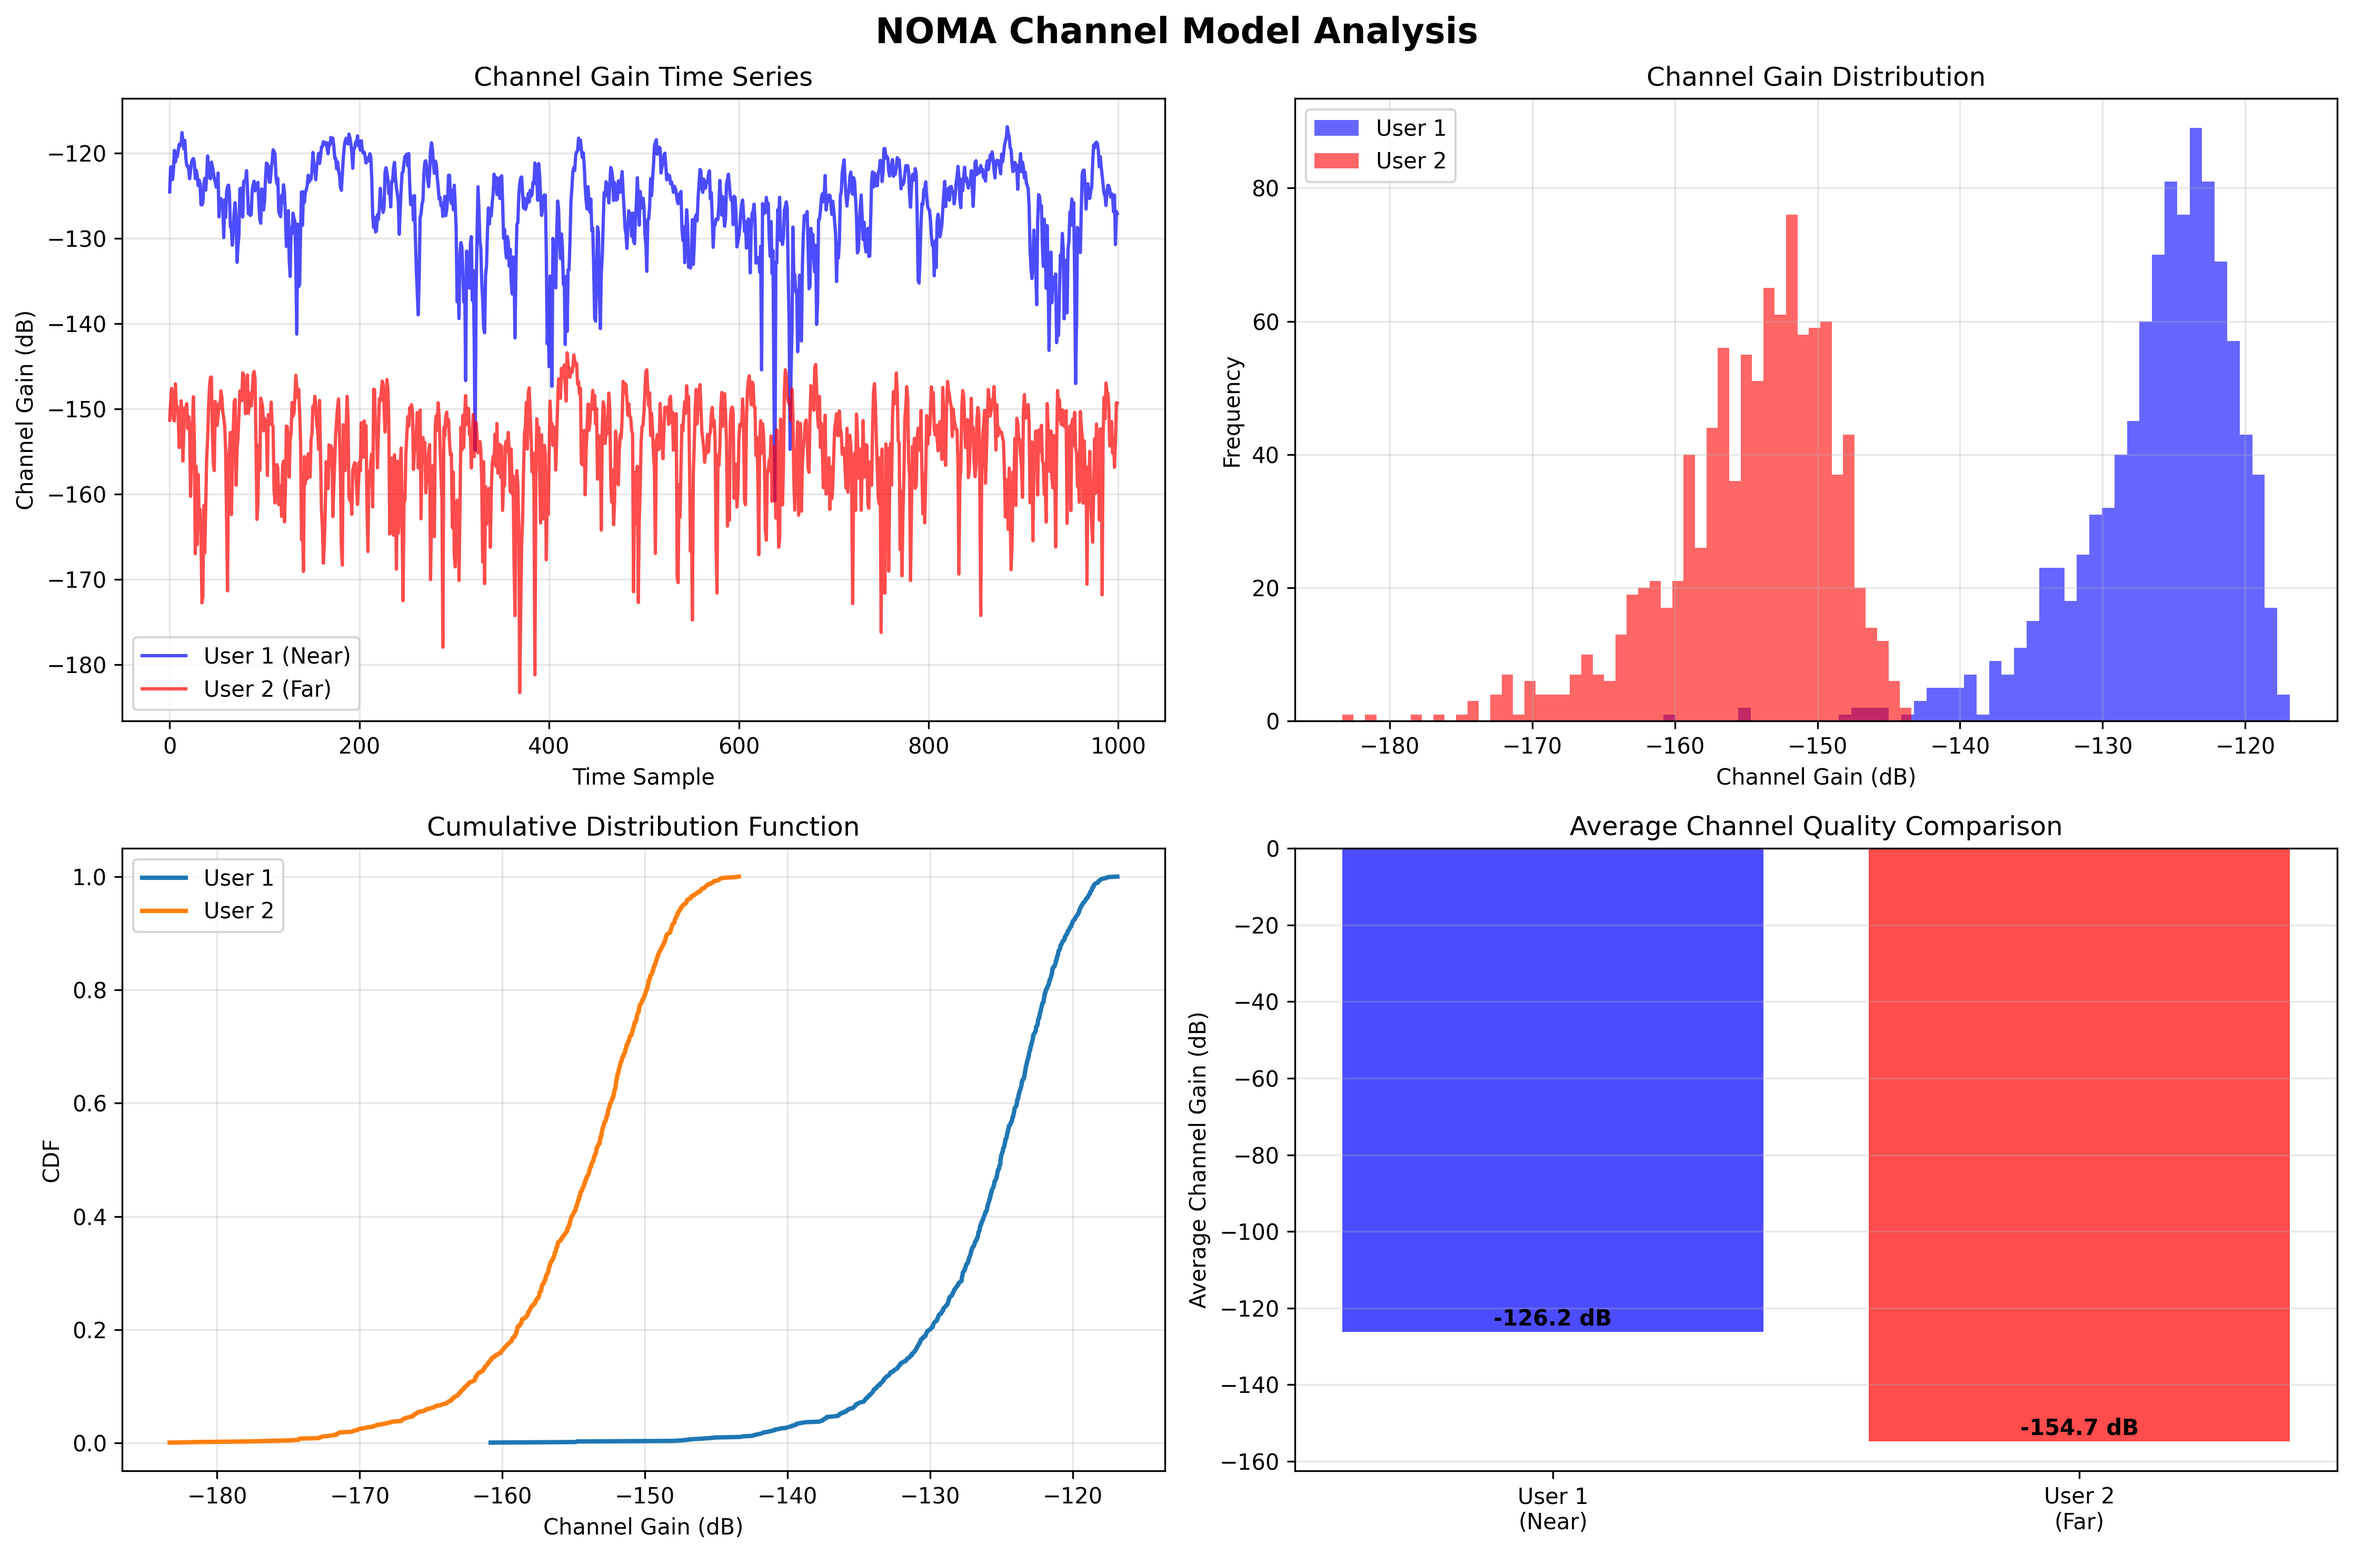
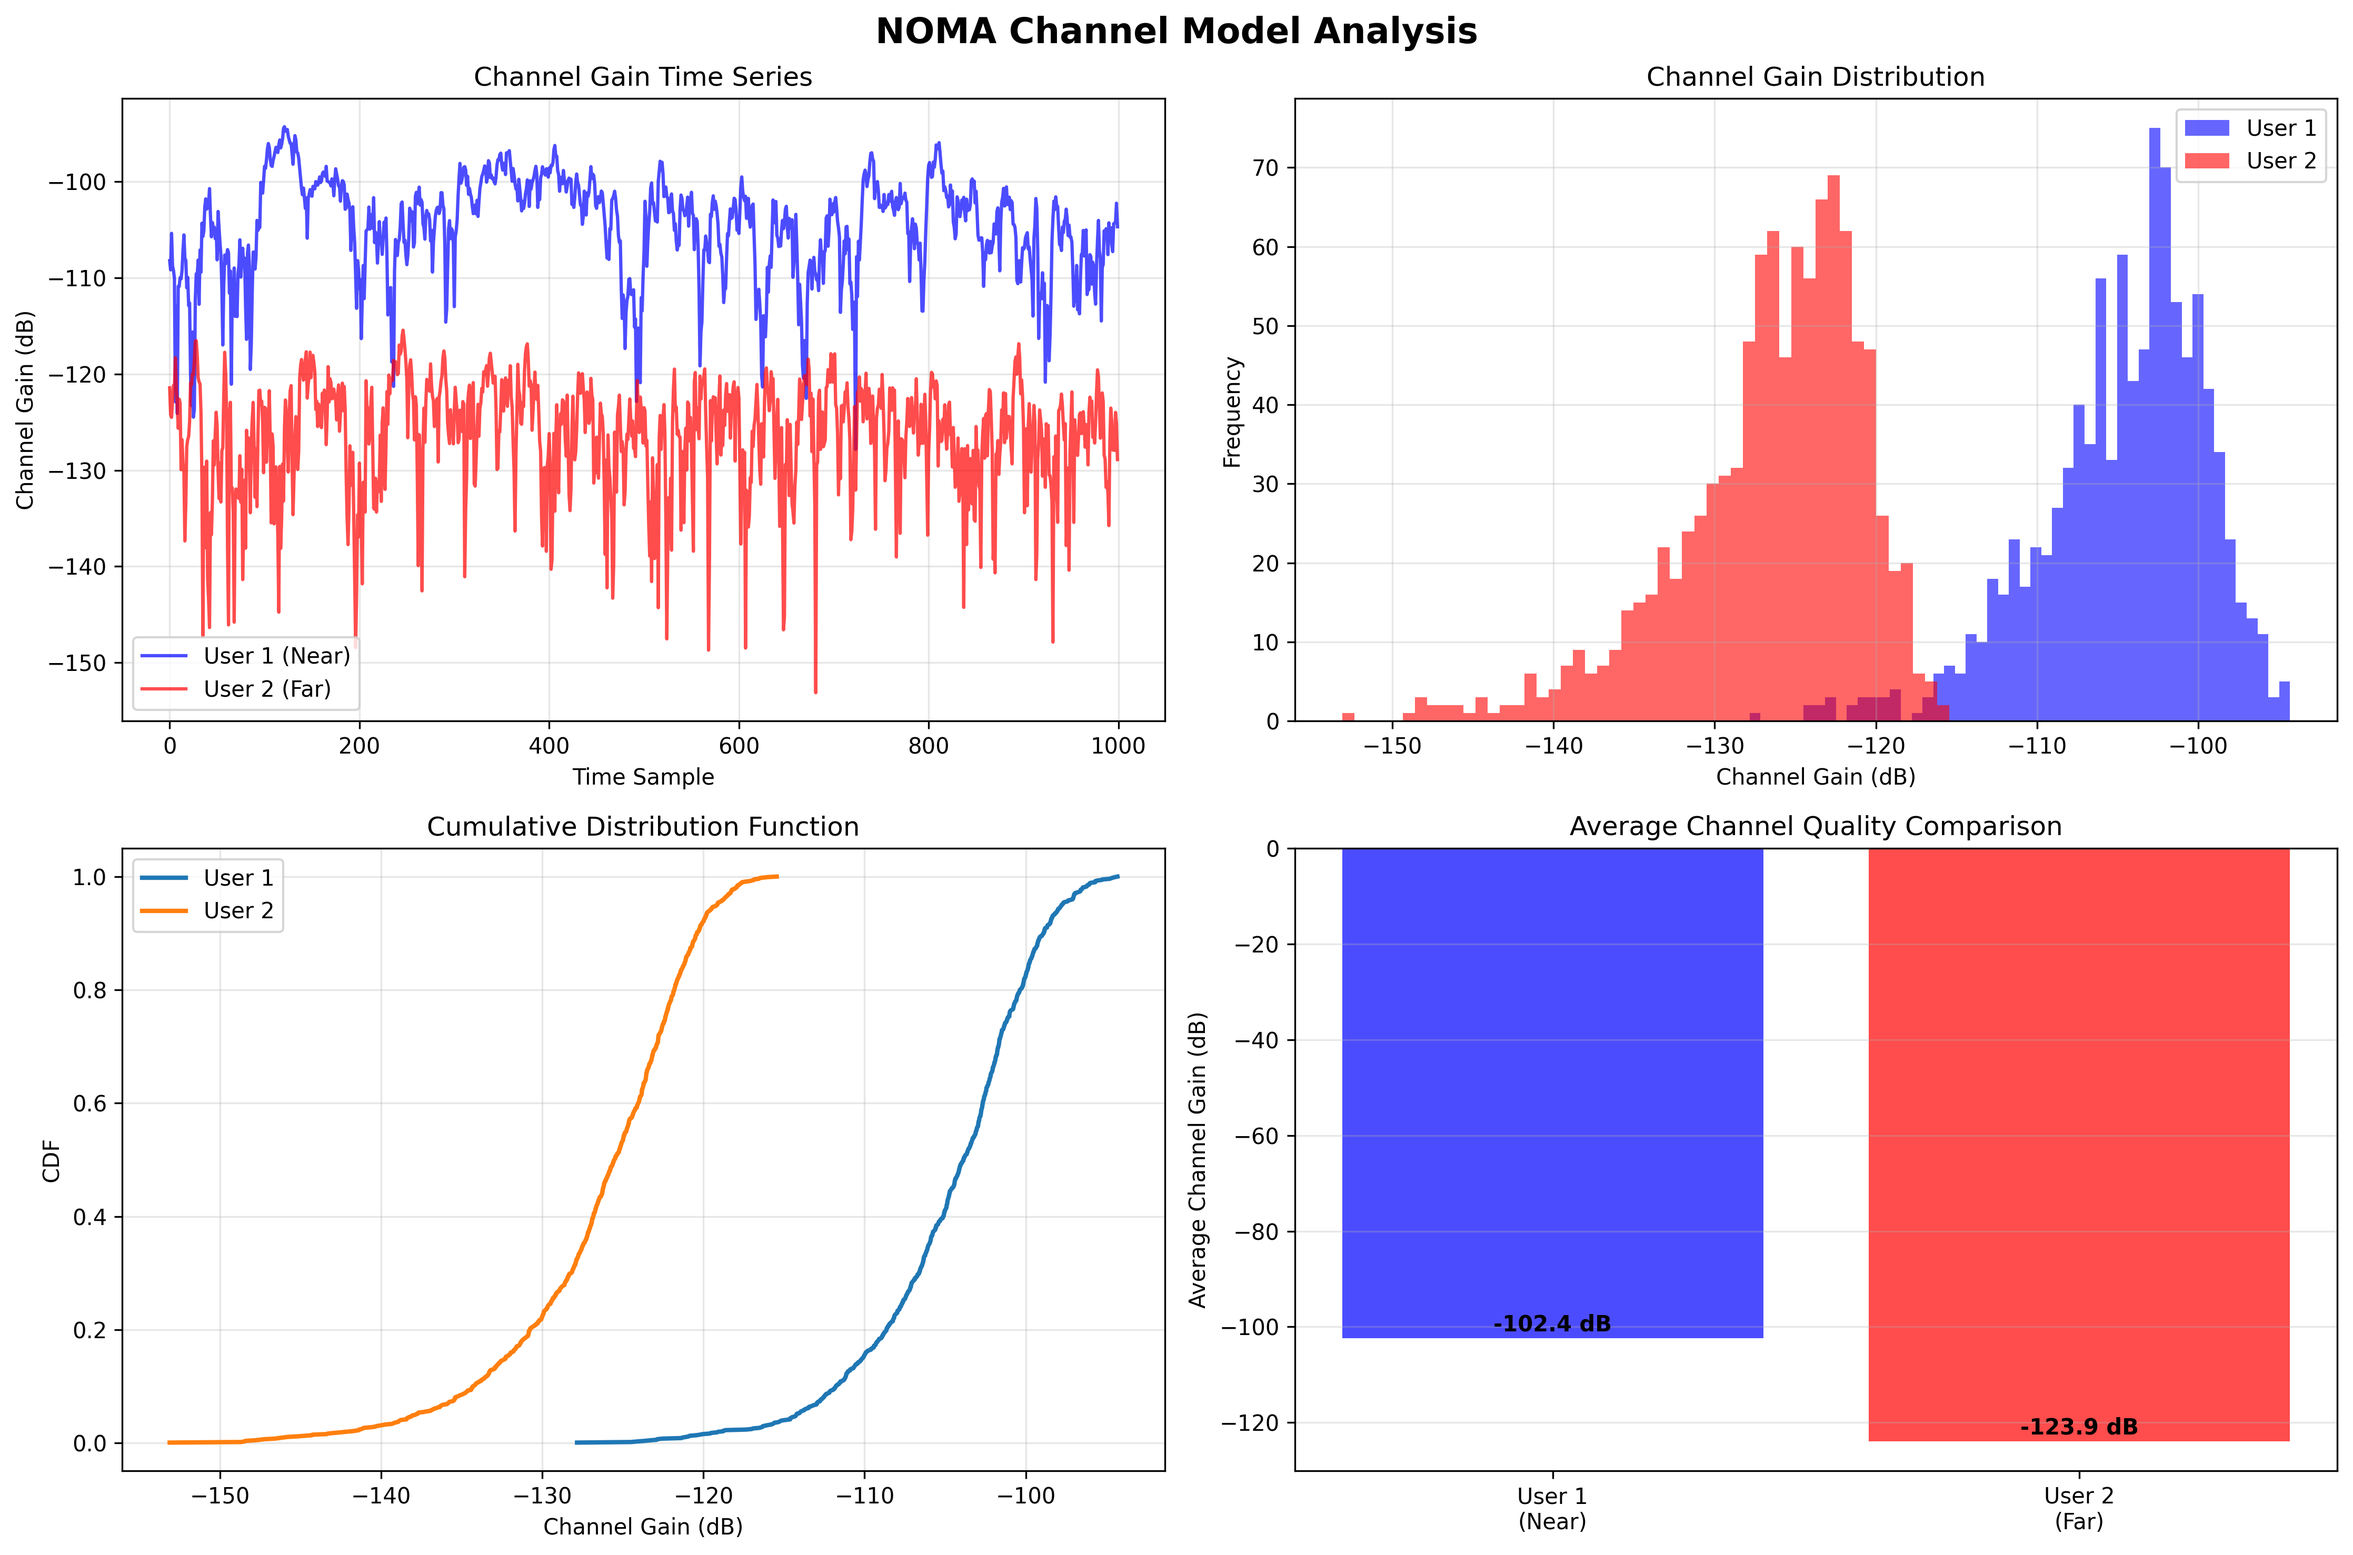
feat: sim 3

diff --git a/power_allocation.py b/power_allocation.py
@@ -38,51 +38,43 @@ class NOMASystem:
         
         # Check if power is static or dynamic
         is_dynamic = isinstance(alpha_1, np.ndarray)
-        
+
         # Initialize SINR arrays
         sinr_user1_linear = np.zeros(num_samples)
         sinr_user2_linear = np.zeros(num_samples)
         
-        for t in range(num_samples):
-            h1_sq = self.channel_gains[0, t]  # |h1|² (Near user)
-            h2_sq = self.channel_gains[1, t]  # |h2|² (Far user)
-            
-            # Get power for this time sample t
-            P1_t = P1[t] if is_dynamic else P1
-            P2_t = P2[t] if is_dynamic else P2
-            
-            # Determine who is stronger user (better channel) *instantaneously*
-            if h1_sq >= h2_sq:
-                # User 1 is stronger
-                h_strong, h_weak = h1_sq, h2_sq
-                P_strong, P_weak = P1_t, P2_t
-            else:
-                # User 2 is stronger  
-                h_strong, h_weak = h2_sq, h1_sq
-                P_strong, P_weak = P2_t, P1_t
-            
-            # ===
-            # BUG FIX: The original code had these two formulas swapped.
-            # ===
-            
-            # Strong user (post-SIC): Decodes its own signal interference-free
-            sinr_strong_user = (P_strong * h_strong) / self.config.noise_power_watts
-            
-            # Weak user: Treats the strong user's signal as noise
-            sinr_weak_user = (P_weak * h_weak) / (P_strong * h_weak + self.config.noise_power_watts)
-            
-            # === END OF FIX ===
-
-            # Assign back to correct users
-            if h1_sq >= h2_sq:
-                # User 1 was strong
-                sinr_user1_linear[t] = sinr_strong_user
-                sinr_user2_linear[t] = sinr_weak_user
-            else:
-                # User 2 was strong
-                sinr_user1_linear[t] = sinr_weak_user
-                sinr_user2_linear[t] = sinr_strong_user
+        # Get channel gains (h_sq) for both users
+        # User 1 is *always* the strong user (Near)
+        # User 2 is *always* the weak user (Far)
+        h1_sq = self.channel_gains[0, :]  # User 1 (Strong, Near)
+        h2_sq = self.channel_gains[1, :]  # User 2 (Weak, Far)
         
+        # Get noise power
+        noise = self.config.noise_power_watts
+        
+        if is_dynamic:
+            # Handle dynamic power arrays
+            P1_t = P1
+            P2_t = P2
+        else:
+            # Handle static power scalars by creating an array
+            P1_t = P1 * np.ones(num_samples)
+            P2_t = P2 * np.ones(num_samples)
+
+        # === RECTIFIED SINR CALCULATION (FIXED ROLES) ===
+        
+        # User 1 (Strong User) performs SIC.
+        # It decodes its own signal interference-free.
+        # Add 1e-12 to noise to prevent divide-by-zero if noise is 0.
+        sinr_user1_linear = (P1_t * h1_sq) / (noise + 1e-12)
+
+        # User 2 (Weak User) does not perform SIC.
+        # It treats User 1's signal as interference.
+        interference_user2 = P1_t * h2_sq
+        sinr_user2_linear = (P2_t * h2_sq) / (interference_user2 + noise + 1e-12)
+        
+        # === END OF RECTIFICATION ===
+
         # Convert to dB
         sinr_user1_dB = 10 * np.log10(sinr_user1_linear + 1e-10)
         sinr_user2_dB = 10 * np.log10(sinr_user2_linear + 1e-10)
@@ -109,7 +101,6 @@ class NOMASystem:
         }
         
         return results
-    
     def adaptive_power_allocation_dynamic(self):
         """
         Dynamic adaptive power allocation based on *instantaneous* channel

diff --git a/channel_model.py b/channel_model.py
@@ -272,8 +272,14 @@ class NOMAChannelModel:
         axes[1, 0].grid(True, alpha=0.3)
         
         # Plot 4: Channel quality comparison
-        avg_gain_user1 = np.mean(self.channel_gains_dB[0, :])
-        avg_gain_user2 = np.mean(self.channel_gains_dB[1, :])
+        # === RECTIFIED CODE ===
+        # Average in linear space first, then convert to dB (mathematically correct)
+        avg_gain_user1_linear = np.mean(self.channel_gains[0, :])
+        avg_gain_user2_linear = np.mean(self.channel_gains[1, :])
+
+        avg_gain_user1 = 10 * np.log10(avg_gain_user1_linear)
+        avg_gain_user2 = 10 * np.log10(avg_gain_user2_linear)
+        # === END OF RECTIFICATION ===
         
         users = ['User 1\n(Near)', 'User 2\n(Far)']
         avg_gains = [avg_gain_user1, avg_gain_user2]
@@ -312,12 +318,19 @@ class NOMAChannelModel:
         stats = {}
         for user in range(self.config.num_users):
             user_key = f'user_{user+1}'
+            
+            # === RECTIFIED LOGIC ===
+            # Calculate dB of the mean linear gain, not mean of the dB gains
+            mean_linear_gain = np.mean(self.channel_gains[user, :])
+            mean_dB_gain = 10 * np.log10(mean_linear_gain + 1e-20)
+            
             stats[user_key] = {
-                'mean_dB': np.mean(self.channel_gains_dB[user, :]),
+                'mean_dB': mean_dB_gain, # Use the corrected value
                 'std_dB': np.std(self.channel_gains_dB[user, :]),
                 'median_dB': np.median(self.channel_gains_dB[user, :]),
                 'min_dB': np.min(self.channel_gains_dB[user, :]),
                 'max_dB': np.max(self.channel_gains_dB[user, :])
             }
+            # === END RECTIFICATION ===
         
         return stats

diff --git a/config.py b/config.py
@@ -30,7 +30,7 @@ class NOMAConfig:
                                          # User 2: 500m (far user)
         
         # Channel Model Parameters
-        self.path_loss_exponent = 4.0     # Free space + shadowing
+        self.path_loss_exponent = 3.0     # Urban environment (reduced from 4.0 for realistic SNR)
         self.speed_of_light = 3e8         # m/s
         
         # CSI Channel Model Parameters
@@ -60,7 +60,7 @@ class NOMAConfig:
         
         # Power Allocation Schemes to Compare
         self.power_schemes = {
-            'fixed': [0.4, 0.6],          # [User1_power, User2_power] - NOMA principle
+            'fixed': [0.7, 0.3],          # [User1_power, User2_power] - NOMA principle
             'equal': [0.5, 0.5],          # Equal power allocation
             'adaptive': 'optimize'         # Will be calculated based on channel
         }
